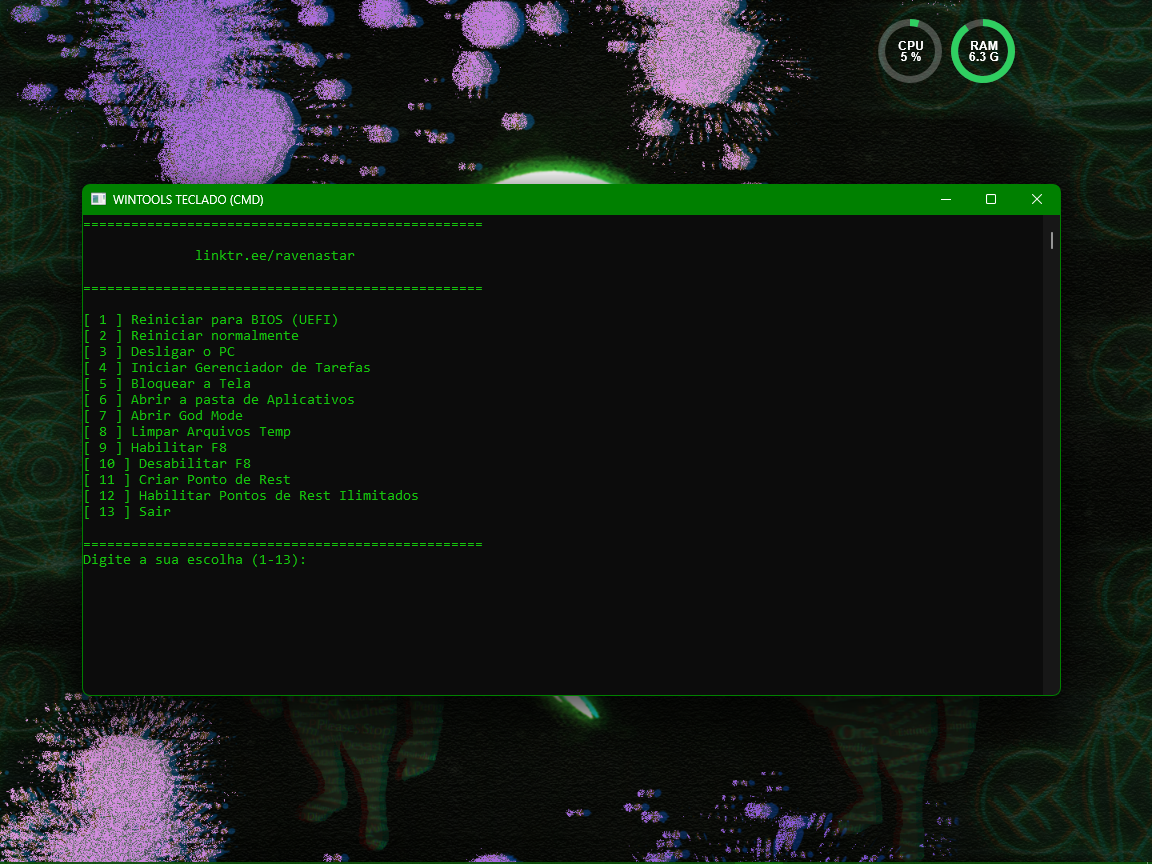
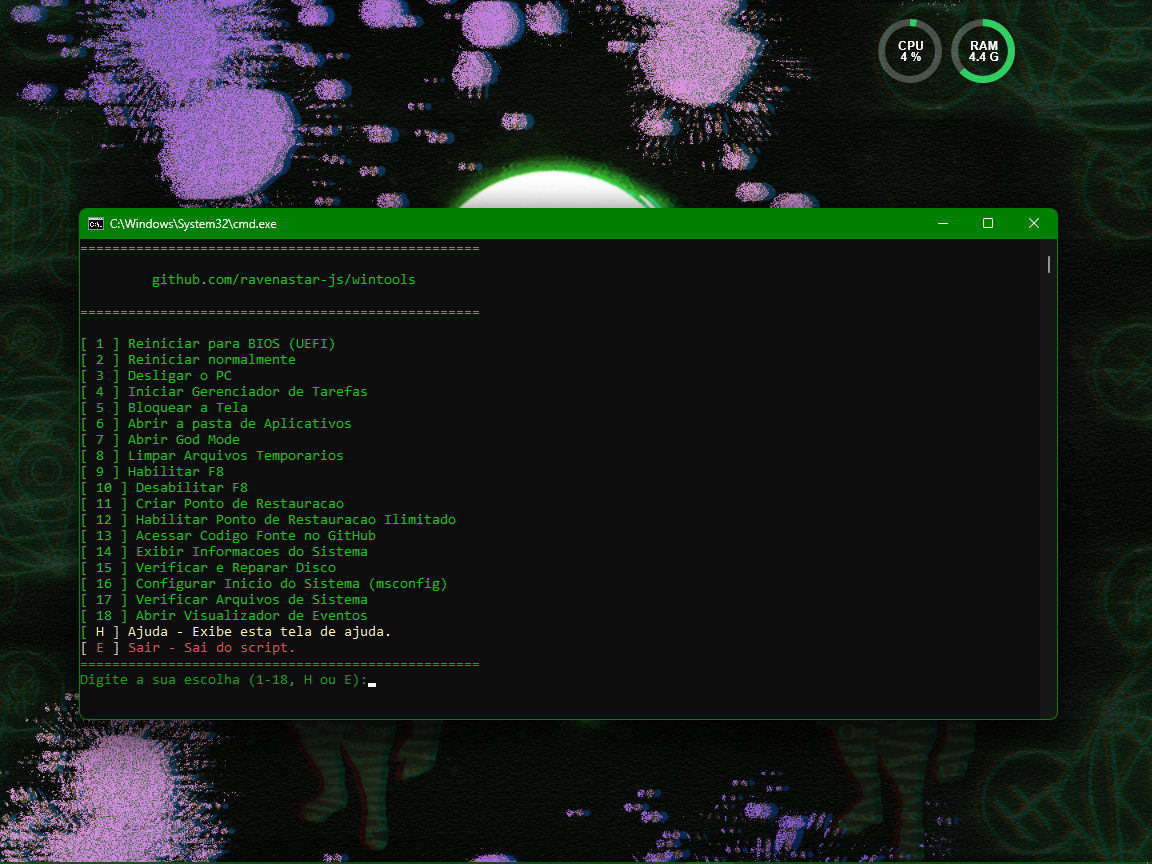
⚙

Changed region(s): [[0.0625, 0.1875, 0.9375, 0.875], [0.4688, 0.7812, 0.5312, 0.8438], [0.8125, 0.0312, 0.8438, 0.0938]]

diff --git a/scripts/menu.js b/scripts/menu.js
@@ -1,0 +1,108 @@
+// Definindo as opções do menu em um array sem números
+var menuOptions = [
+    { label: 'Reiniciar para BIOS (UEFI)', cmd: 'reboot_bios', script: 'msg * "Sistema UEFI detectado. Reiniciando para BIOS..."\r\nshutdown /r /fw /t 0' },
+    { label: 'Reiniciar normalmente', cmd: 'reboot_normal', script: 'shutdown /r /t 0' },
+    { label: 'Desligar o PC', cmd: 'shutdown', script: 'shutdown /s /t 0' },
+    { label: 'Iniciar Gerenciador de Tarefas', cmd: 'task_manager', script: 'start taskmgr' },
+    { label: 'Bloquear a Tela', cmd: 'lock_screen', script: 'rundll32.exe user32.dll,LockWorkStation' },
+    { label: 'Abrir a pasta de Aplicativos', cmd: 'open_appsfolder', script: 'explorer shell:appsfolder' },
+    { label: 'Abrir God Mode', cmd: 'open_godmode', script: 'mkdir "%userprofile%\\Desktop\\GodMode.{ED7BA470-8E54-465E-825C-99712043E01C}"\r\nexplorer "%userprofile%\\Desktop\\GodMode.{ED7BA470-8E54-465E-825C-99712043E01C}"' },
+    { label: 'Limpar Arquivos Temporarios', cmd: 'clean_temp', script: 'powershell -command "Start-Process cmd.exe -ArgumentList \'/c %~dp0cmd\\clean_temp_files.cmd\' -Verb RunAs"' },
+    { label: 'Habilitar F8', cmd: 'enable_f8', script: 'bcdedit /set {default} bootmenupolicy legacy' },
+    { label: 'Desabilitar F8', cmd: 'disable_f8', script: 'bcdedit /set {default} bootmenupolicy standard' },
+    { label: 'Criar Ponto de Restauracao', cmd: 'create_restore_point', script: 'Wmic.exe /Namespace:\\\\root\\default Path SystemRestore Call CreateRestorePoint "Criado via atalho", 100, 7' },
+    { label: 'Habilitar Ponto de Restauracao Ilimitado', cmd: 'enable_unlimited_restore_points', script: 'reg add "HKEY_LOCAL_MACHINE\\SOFTWARE\\Microsoft\\Windows NT\\CurrentVersion\\SystemRestore" /v SystemRestorePointCreationFrequency /t REG_DWORD /d 0 /f' },
+    { label: 'Acessar Codigo Fonte no GitHub', cmd: 'github', script: 'start https://github.com/ravenastar-js/wintools' },
+    { label: 'Exibir Informacoes do Sistema', cmd: 'system_info', script: 'systeminfo' },
+    { label: 'Verificar e Reparar Disco', cmd: 'check_disk', script: 'chkdsk C: /F /R' },
+    { label: 'Configurar Inicio do Sistema (msconfig)', cmd: 'msconfig', script: 'start msconfig' },
+    { label: 'Verificar Arquivos de Sistema', cmd: 'sfc_scan', script: 'sfc /scannow' },
+    { label: 'Abrir Visualizador de Eventos', cmd: 'event_viewer', script: 'start eventvwr' }
+];
+
+// Função para gerar o script CMD
+function generateCmdScript(options) {
+    var script = '@echo off\r\ncolor 0A\r\n\r\n';
+    script += 'rem Verifica se o script está sendo executado como administrador\r\n';
+    script += 'net session >nul 2>&1\r\n';
+    script += 'if %errorLevel% neq 0 (\r\n';
+    script += '    color 0C\r\n';
+    script += '    echo Solicitando permissao de administrador...\r\n';
+    script += '    goto elevate\r\n';
+    script += ') else (\r\n';
+    script += '    goto runScript\r\n';
+    script += ')\r\n\r\n';
+    script += ':elevate\r\n';
+    script += 'rem Reexecuta o script com permissões de administrador\r\n';
+    script += 'cd /d "%~dp0"\r\n';
+    script += 'powershell -Command "Start-Process \'%~s0\' -Verb RunAs"\r\n';
+    script += 'exit /b\r\n\r\n';
+    script += ':runScript\r\n';
+    script += 'rem Muda para o diretório correto\r\n';
+    script += 'cd /d "%~dp0"\r\n\r\n';
+    script += ':menu\r\ncls\r\n';
+    script += 'echo ==================================================\r\n';
+    script += 'echo.\r\n' + 'echo          github.com/ravenastar-js/wintools\r\n' + 'echo.\r\n';
+    script += 'echo ==================================================\r\n';
+    script += 'echo.\r\n';
+
+    for (var i = 0; i < options.length; i++) {
+        script += 'echo [ ' + (i + 1) + ' ] ' + options[i].label + '\r\n';
+    }
+
+    script += 'echo [ \x1b[93mH\x1b[0m ] \x1b[93mAjuda - Exibe esta tela de ajuda.\x1b[0m\r\n';
+    script += 'echo [ \x1b[91mE\x1b[0m ] \x1b[91mSair - Sai do script.\x1b[32m\r\n';
+    script += 'echo ==================================================\r\n';
+    script += 'set /p choice=Digite a sua escolha (1-' + options.length + ', H ou E):\r\n\r\n';
+
+    for (var i = 0; i < options.length; i++) {
+        script += 'if /i "%choice%"=="' + (i + 1) + '" goto ' + options[i].cmd + '\r\n';
+    }
+
+    script += 'if /i "%choice%"=="H" goto help\r\n';
+    script += 'if /i "%choice%"=="E" goto exit\r\n';
+    script += 'goto invalid_choice\r\n\r\n';
+
+    for (var i = 0; i < options.length; i++) {
+        script += ':' + options[i].cmd + '\r\n';
+        script += options[i].script + '\r\n';
+        script += 'pause\r\n';
+        script += 'goto menu\r\n\r\n';
+    }
+
+    script += ':help\r\ncls\r\ncolor 0E\r\necho Ajuda:\r\n';
+
+    for (var i = 0; i < options.length; i++) {
+        script += 'echo [ ' + (i + 1) + ' ] ' + options[i].label + '\r\n';
+    }
+
+    script += 'echo [ H ] Ajuda - Exibe esta tela de ajuda.\r\n';
+    script += 'echo [ E ] Sai do script.\r\n';
+    script += 'color 0E\r\npause\r\ncolor 0A\r\ngoto menu\r\n\r\n';
+
+    script += ':exit\r\nexit\r\n';
+
+    script += ':invalid_choice\r\npowershell -command "& {Add-Type -AssemblyName PresentationFramework; [System.Windows.MessageBox]::Show(\'Escolher entre 1 a ' + options.length + ', H ou E.\', \'Erro\', \'OK\', \'Error\')}"\r\npause\r\ngoto menu\r\n';
+
+    return script;
+}
+
+// Utilizando WScript.Shell para criar e escrever o arquivo menu.cmd na pasta "TOOLS" uma pasta acima da atual
+var shell = new ActiveXObject("WScript.Shell");
+var fso = new ActiveXObject("Scripting.FileSystemObject");
+var currentFolder = fso.GetParentFolderName(WScript.ScriptFullName);
+var parentFolder = fso.GetParentFolderName(currentFolder);
+var toolsFolder = fso.BuildPath(parentFolder, "TOOLS");
+
+if (!fso.FolderExists(toolsFolder)) {
+    fso.CreateFolder(toolsFolder);
+}
+
+var cmdFilePath = fso.BuildPath(toolsFolder, "menu.cmd");
+var cmdFile = fso.CreateTextFile(cmdFilePath, true);
+
+var cmdScript = generateCmdScript(menuOptions);
+cmdFile.Write(cmdScript);
+cmdFile.Close();
+
+// shell.Popup('Script menu.cmd gerado com sucesso na pasta TOOLS!', 5);

diff --git a/scripts/s_message.js b/scripts/s_message.js
@@ -1,0 +1,3 @@
+var shell = new ActiveXObject("WScript.Shell");
+shell.Popup("Arquivos gerados com sucesso!", 5, "Sucesso", 64);
+WScript.Quit();

diff --git a/README.md b/README.md
@@ -1,8 +1,11 @@
-> [!IMPORTANT]    
-> ⚠  Para evitar problemas, execute os scripts como administrador.
+> [!IMPORTANT]
+> ⚠ Para evitar problemas, os scripts são executados automaticamente como administrador.
 
-> [!IMPORTANT]    
-> Execute o arquivo `CriarAtalhos.bat` para criar os atalhos necessários para o funcionamento do script, não esqueça de alterar manualmente as propriedades de cada atalho para "Executar como administrador". 
+> [!IMPORTANT]
+> Execute o arquivo `GerarArquivos.bat` para criar os arquivos necessários para o funcionamento do script.
+> 
+> O arquivo `GerarArquivos.bat` cria o atalho `WINTOOLS (CMD)` que fica no diretório raiz do projeto e o arquivo `menu.cmd` que fica na pasta `TOOLS`, caso o `menu.cmd` exista, o conteúdo de `menu.cmd` será atualizado caso execute o arquivo `GerarArquivos.bat`. 
+
 
 <details>
 <summary>Veja como alterar o atalho para "Executar como administrador".</summary>
@@ -33,7 +36,7 @@ Ideal para administradores de sistemas, desenvolvedores, e todos que desejam oti
 ### 📷 Prévias
 
 <details>
-<summary>⌨ WINTOOLS TECLADO (CMD)</summary>
+<summary>WINTOOLS (CMD)</summary>
 <img src="TOOLS/img/wintools_cmd.png" alt="WinTools CMD"/>
 </details>
 
